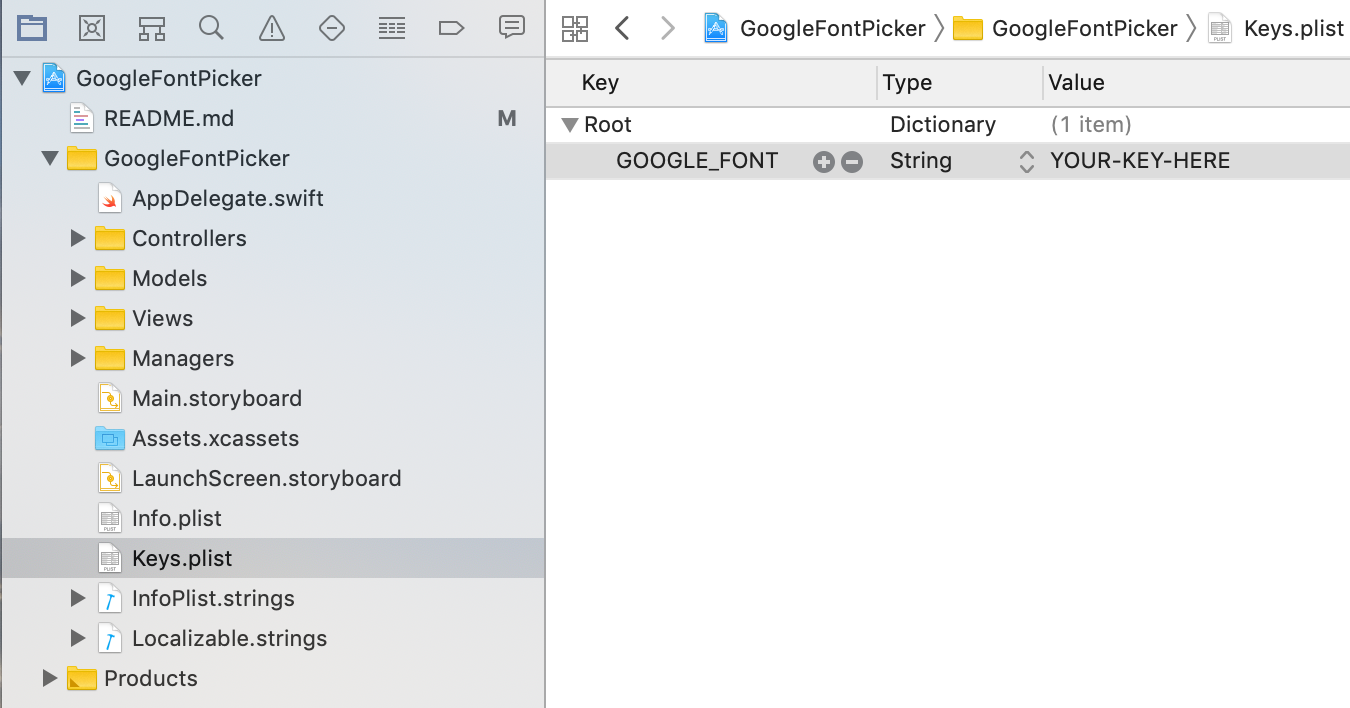
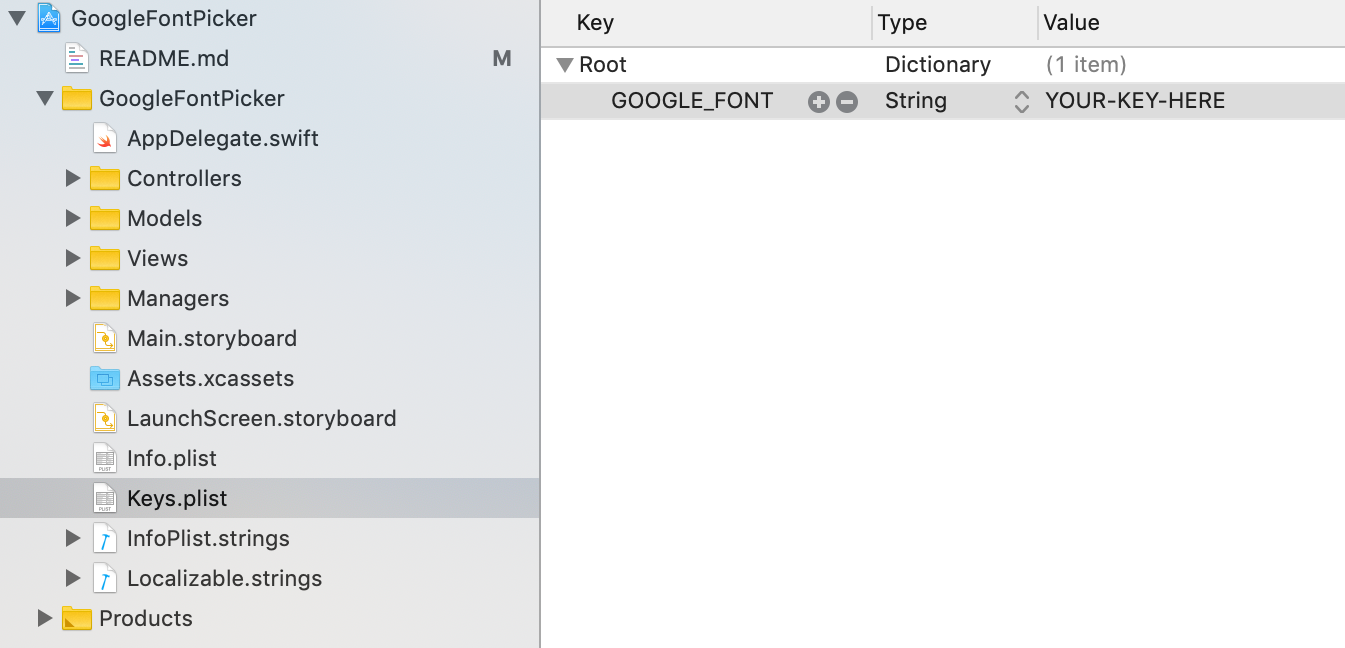
Updated README image.

Changed region(s): [[0.0, 0.0, 1.0, 0.9877], [0.281, 0.0309, 0.3435, 0.0617]]

diff --git a/README.md b/README.md
@@ -14,7 +14,7 @@ Demostrating Google Font preview.
 ## Installation
 
 Before building, create a file `Keys.plist` in your main bundle and add a key `GOOGLE_FONT` with the API key you retrieve from Google Developer.
-<img src="https://raw.githubusercontent.com/yunnnyunnn/GoogleFontPicker/master/key.png" alt=“key” width=“675” height=“354” />
+<img src="https://raw.githubusercontent.com/yunnnyunnn/GoogleFontPicker/master/key.png" alt=“key” width=“450” height=“236” />
 
 ## Discussion
 
